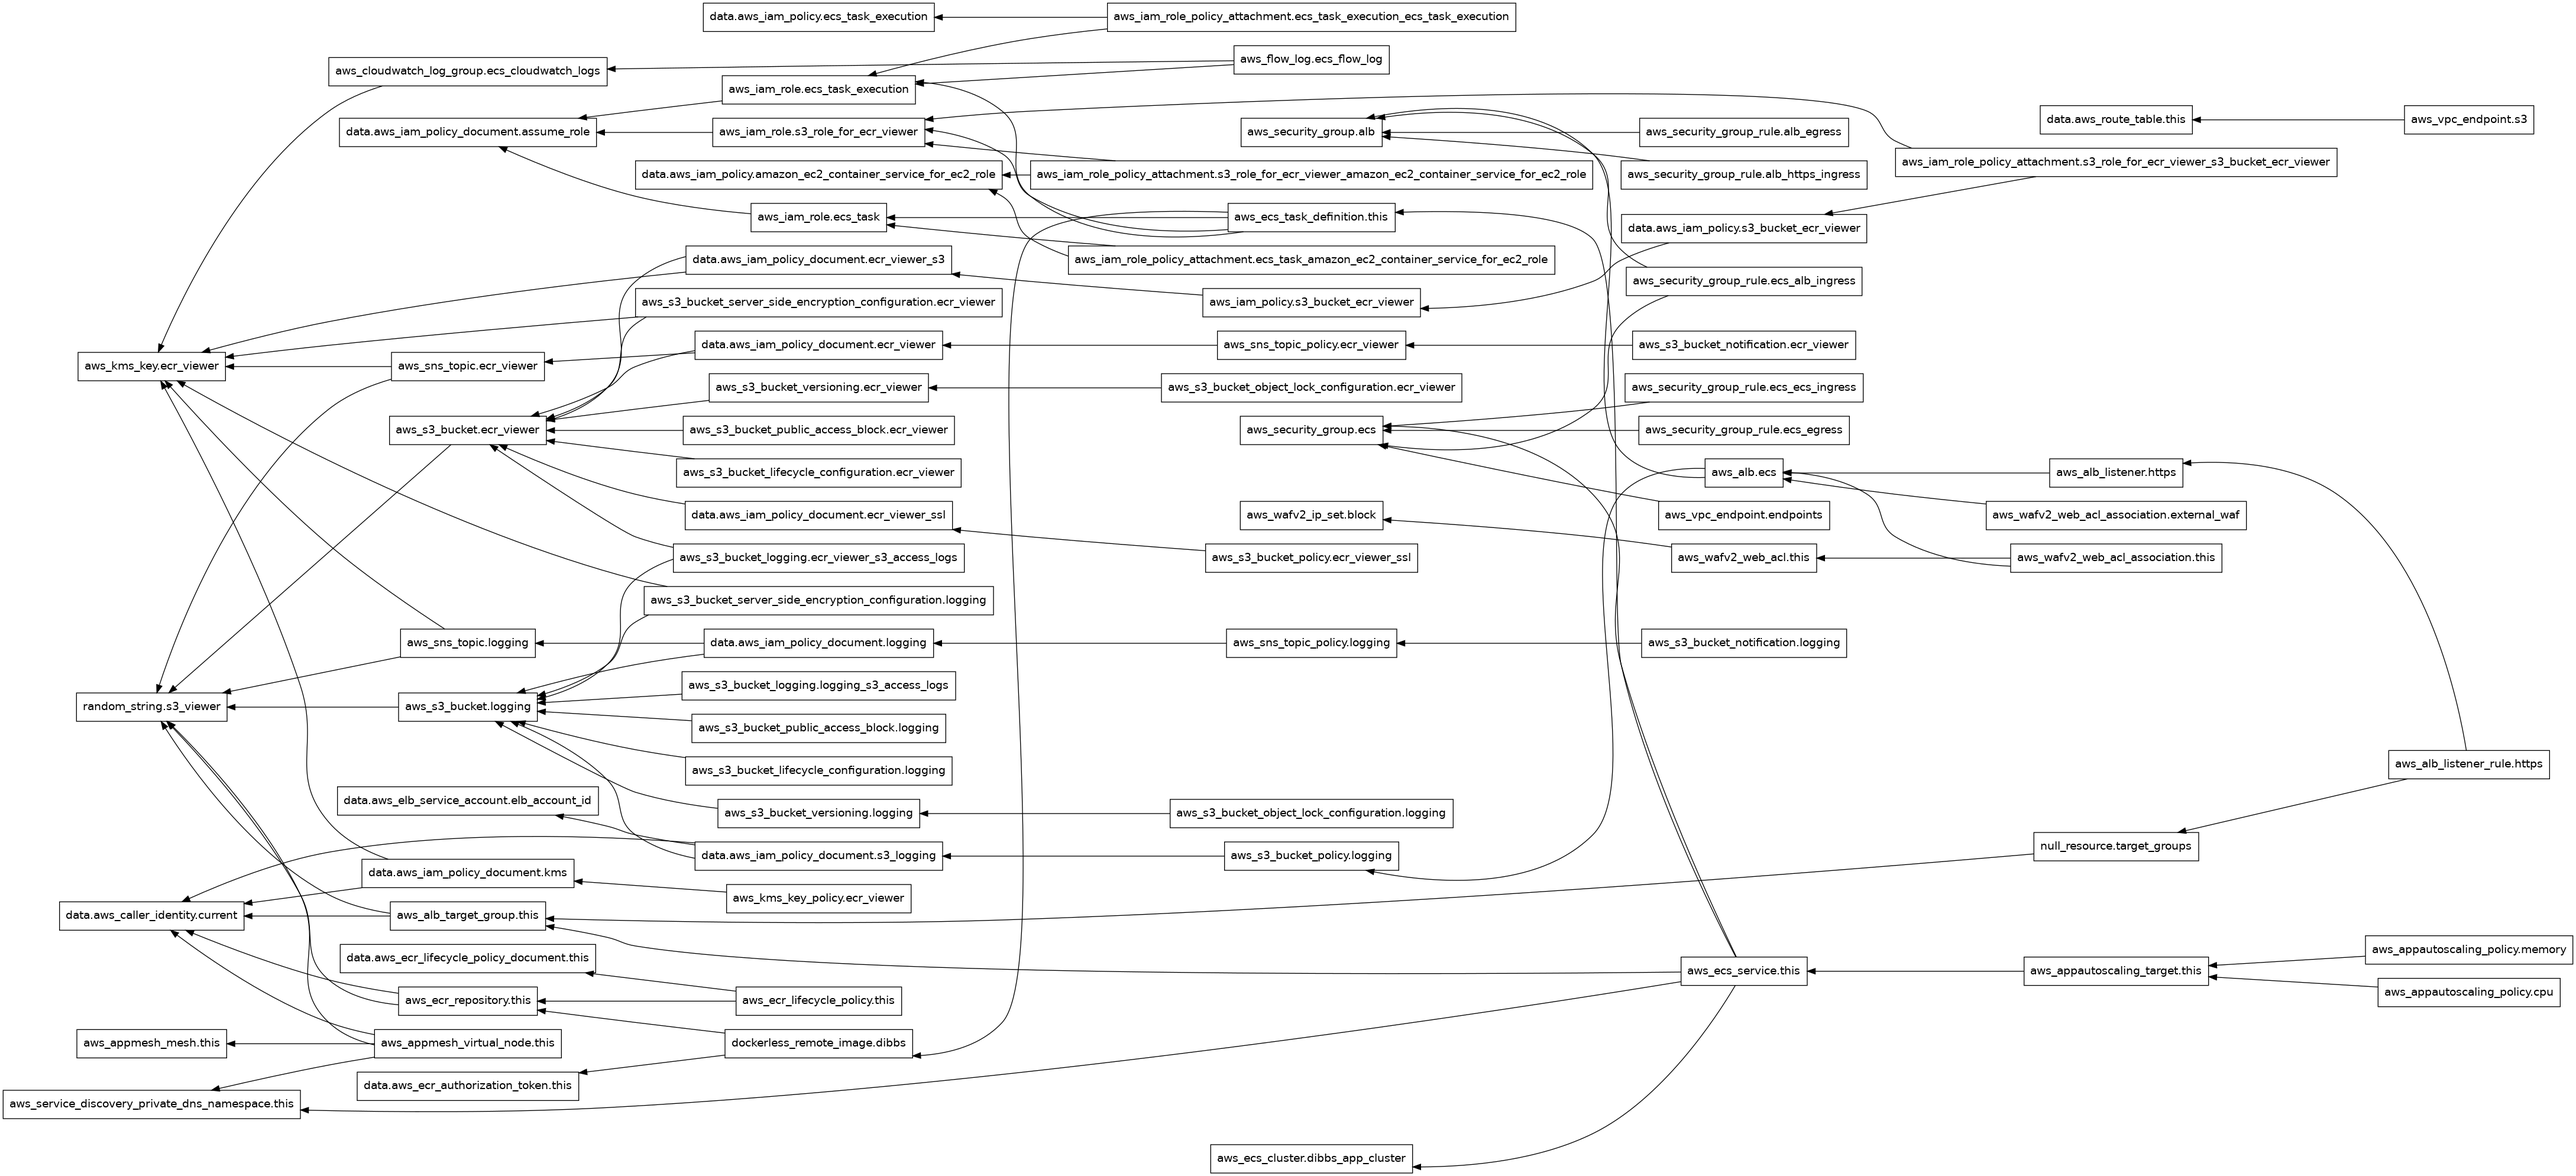
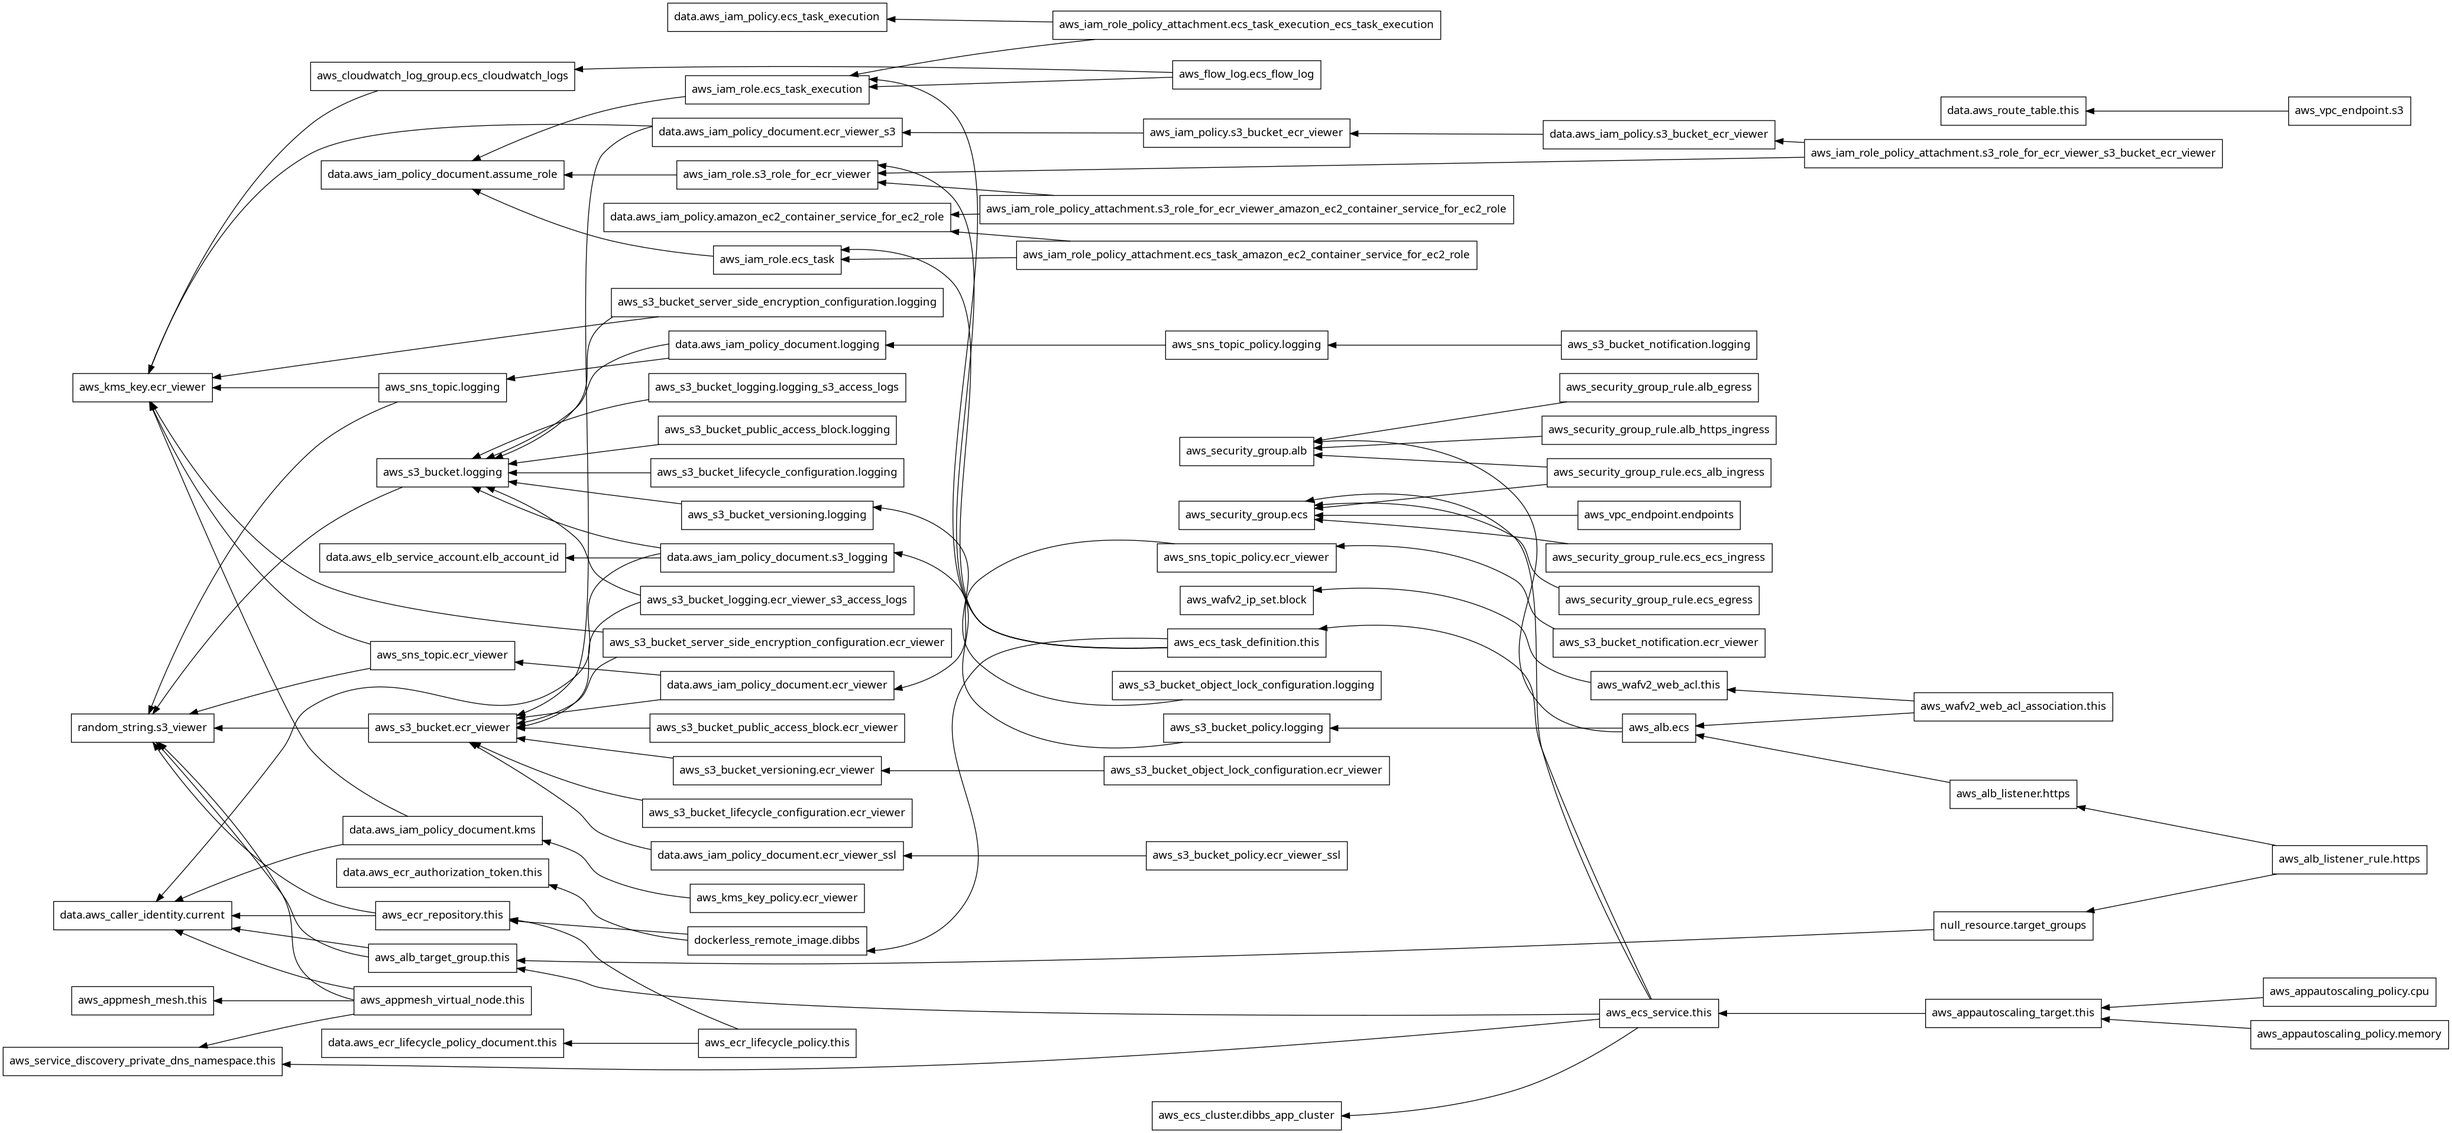
Add Checkov GitHub workflow (#48)
## Summary

Fix checkov security scan failures.

## Changes

- Added permissions: read-all to all GitHub workflow files (checkov,
tflint, trivy) - resolves CKV2_GHA_1 failures
- Removes misconfigured aws_wafv2_web_acl_logging_configuration resource
for WAF

---------

diff --git a/README.md b/README.md
@@ -184,7 +184,6 @@ No modules.
 | [aws_vpc_endpoint.s3](https://registry.terraform.io/providers/hashicorp/aws/latest/docs/resources/vpc_endpoint) | resource |
 | [aws_wafv2_ip_set.block](https://registry.terraform.io/providers/hashicorp/aws/latest/docs/resources/wafv2_ip_set) | resource |
 | [aws_wafv2_web_acl.this](https://registry.terraform.io/providers/hashicorp/aws/latest/docs/resources/wafv2_web_acl) | resource |
-| [aws_wafv2_web_acl_association.external_waf](https://registry.terraform.io/providers/hashicorp/aws/latest/docs/resources/wafv2_web_acl_association) | resource |
 | [aws_wafv2_web_acl_association.this](https://registry.terraform.io/providers/hashicorp/aws/latest/docs/resources/wafv2_web_acl_association) | resource |
 | [dockerless_remote_image.dibbs](https://registry.terraform.io/providers/nullstone-io/dockerless/latest/docs/resources/remote_image) | resource |
 | [null_resource.target_groups](https://registry.terraform.io/providers/hashicorp/null/latest/docs/resources/resource) | resource |
